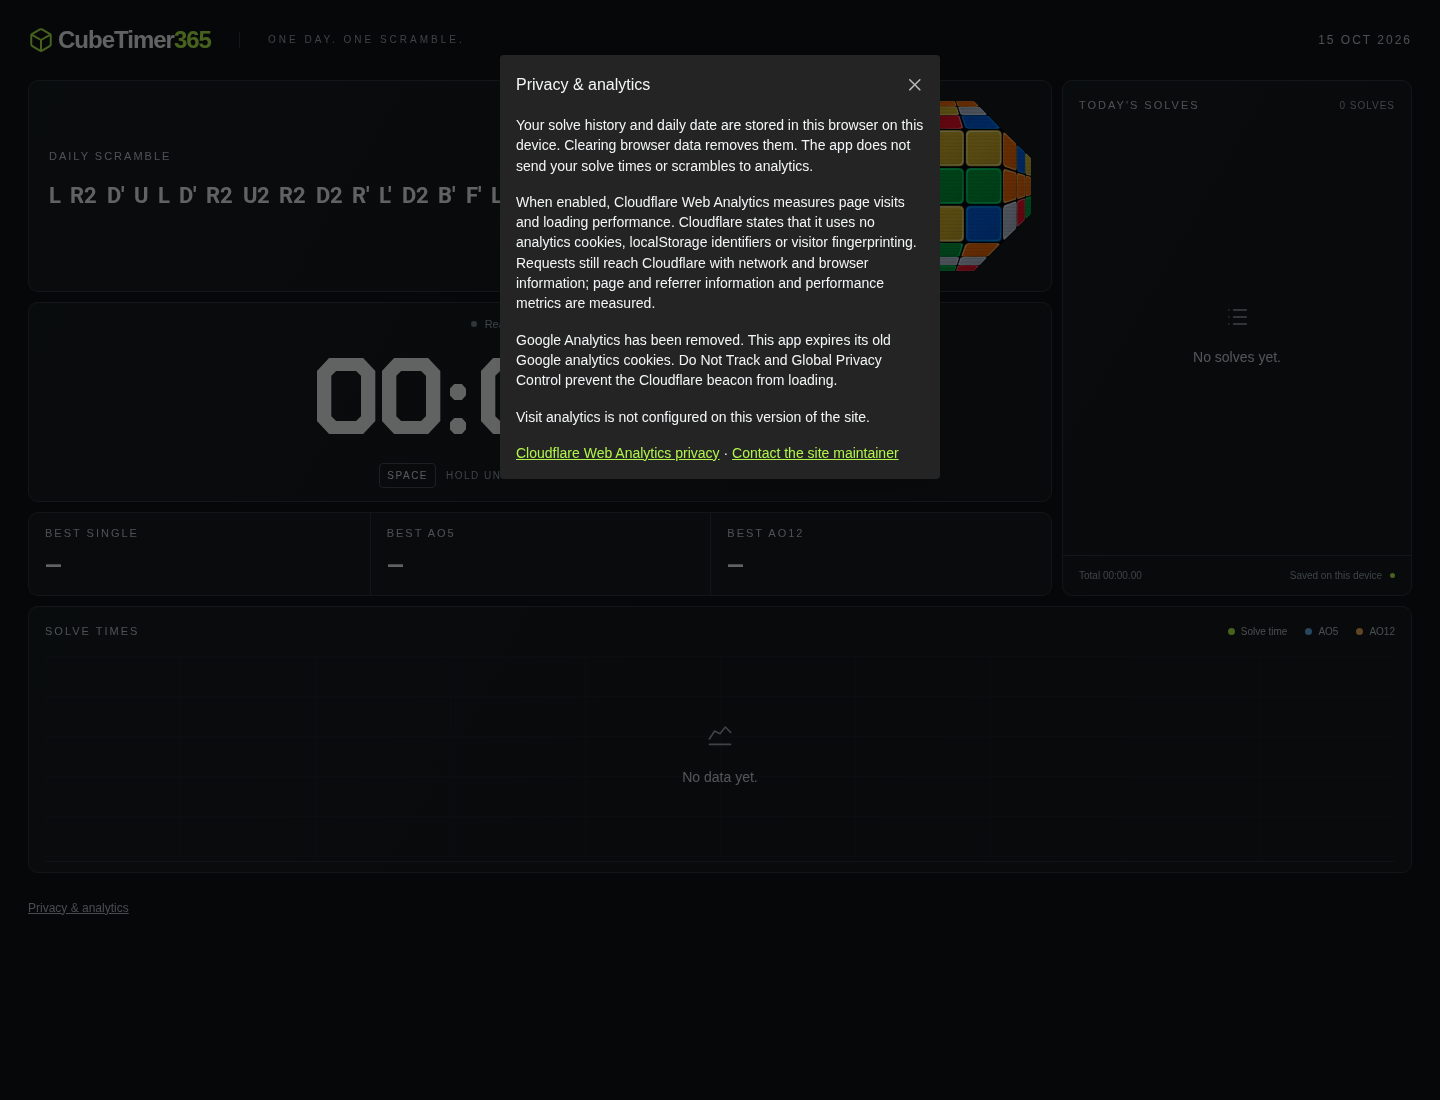
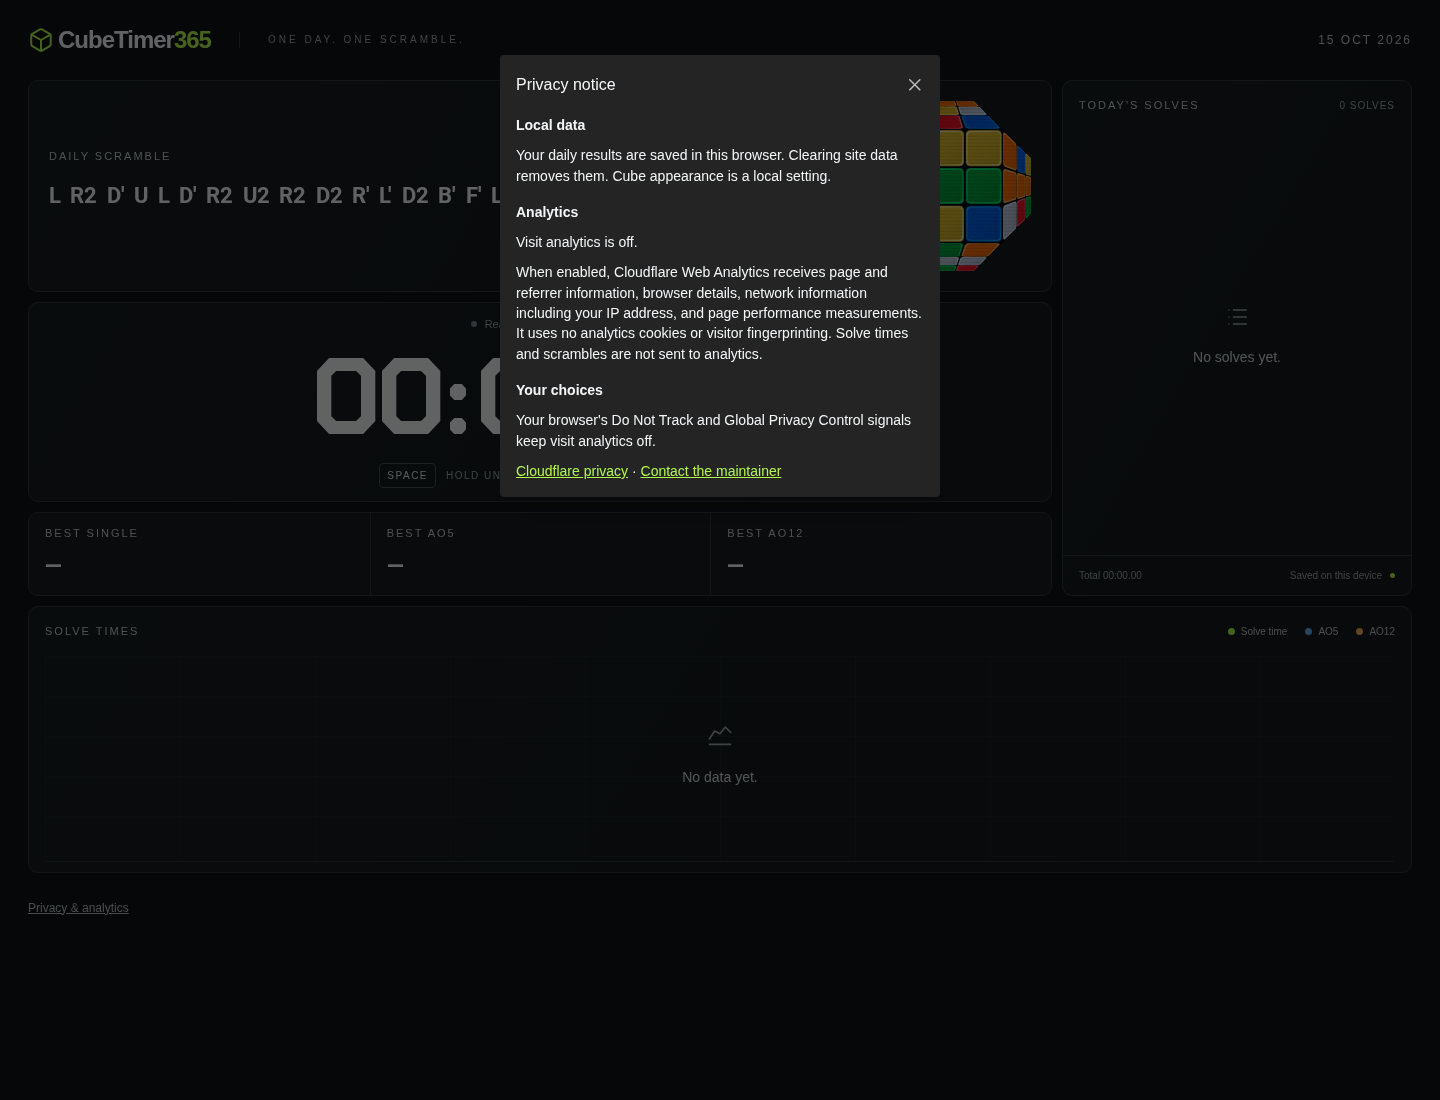
Present a visitor privacy notice and guard all analytics test contexts

Changed region(s): [[0.3438, 0.0618, 0.6562, 0.4636]]

diff --git a/src/AnalyticsPrivacy.tsx b/src/AnalyticsPrivacy.tsx
@@ -26,51 +26,84 @@ export default function AnalyticsPrivacy() {
         className="analytics-privacy-modal"
         opened={opened}
         onClose={() => setOpened(false)}
-        title="Privacy & analytics"
+        title="Privacy notice"
       >
-        <Stack>
-          <Text size="sm">
-            Your solve history and daily date are stored in this browser on this
-            device. Clearing browser data removes them. The app does not send
-            your solve times or scrambles to analytics.
-          </Text>
-          <Text size="sm">
-            When enabled, Cloudflare Web Analytics measures page visits and
-            loading performance. Cloudflare states that it uses no analytics
-            cookies, localStorage identifiers or visitor fingerprinting.
-            Requests still reach Cloudflare with network and browser
-            information; page and referrer information and performance metrics
-            are measured.
-          </Text>
-          <Text size="sm">
-            Google Analytics has been removed. This app expires its old Google
-            analytics cookies. Do Not Track and Global Privacy Control prevent
-            the Cloudflare beacon from loading.
-          </Text>
-          <Text size="sm">
-            {!import.meta.env.PROD || !analyticsConfigured
-              ? "Visit analytics is not configured on this version of the site."
-              : blocked
-                ? "Visit analytics is off because your browser sends a privacy signal."
-                : "Cloudflare Web Analytics is enabled on this version of the site."}
-          </Text>
-          <Text size="sm">
-            <a
-              href="https://www.cloudflare.com/web-analytics/"
-              target="_blank"
-              rel="noreferrer"
+        <Stack gap="md">
+          <section aria-labelledby="privacy-local">
+            <Text
+              component="h3"
+              id="privacy-local"
+              fw={600}
+              size="sm"
+              mt={0}
+              mb="xs"
             >
-              Cloudflare Web Analytics privacy
-            </a>
-            {" · "}
-            <a
-              href="https://github.com/progbeat/cubetimer365/issues"
-              target="_blank"
-              rel="noreferrer"
+              Local data
+            </Text>
+            <Text size="sm">
+              Your daily results are saved in this browser. Clearing site data
+              removes them. Cube appearance is a local setting.
+            </Text>
+          </section>
+          <section aria-labelledby="privacy-analytics">
+            <Text
+              component="h3"
+              id="privacy-analytics"
+              fw={600}
+              size="sm"
+              mt={0}
+              mb="xs"
             >
-              Contact the site maintainer
-            </a>
-          </Text>
+              Analytics
+            </Text>
+            <Text size="sm" mb="xs">
+              {!import.meta.env.PROD || !analyticsConfigured
+                ? "Visit analytics is off."
+                : blocked
+                  ? "Visit analytics is off because your browser sends a privacy signal."
+                  : "Visit analytics is enabled through Cloudflare."}
+            </Text>
+            <Text size="sm">
+              When enabled, Cloudflare Web Analytics receives page and referrer
+              information, browser details, network information including your
+              IP address, and page performance measurements. It uses no
+              analytics cookies or visitor fingerprinting. Solve times and
+              scrambles are not sent to analytics.
+            </Text>
+          </section>
+          <section aria-labelledby="privacy-choices">
+            <Text
+              component="h3"
+              id="privacy-choices"
+              fw={600}
+              size="sm"
+              mt={0}
+              mb="xs"
+            >
+              Your choices
+            </Text>
+            <Text size="sm" mb="xs">
+              Your browser's Do Not Track and Global Privacy Control signals
+              keep visit analytics off.
+            </Text>
+            <Text size="sm">
+              <a
+                href="https://www.cloudflare.com/web-analytics/"
+                target="_blank"
+                rel="noreferrer"
+              >
+                Cloudflare privacy
+              </a>
+              {" · "}
+              <a
+                href="https://github.com/progbeat/cubetimer365/issues"
+                target="_blank"
+                rel="noreferrer"
+              >
+                Contact the maintainer
+              </a>
+            </Text>
+          </section>
         </Stack>
       </Modal>
     </footer>

diff --git a/scripts/review/browser-date-check.js b/scripts/review/browser-date-check.js
@@ -1,4 +1,6 @@
-export default async (page) => {
+import { interceptAnalytics } from "./browser-network-guards.js";
+
+export default async (page, { configured = false } = {}) => {
   const origin = new URL(page.url());
   if (!["127.0.0.1", "localhost"].includes(origin.hostname)) {
     throw new Error("Use an isolated localhost browser");
@@ -36,6 +38,7 @@ export default async (page) => {
       timezoneId: fixture.timezoneId,
     });
     try {
+      const guard = await interceptAnalytics(context);
       const zonedPage = await context.newPage();
       await zonedPage.clock.setFixedTime(fixture.instant);
       const utcDate = fixture.instant.split("T")[0];
@@ -46,6 +49,16 @@ export default async (page) => {
       await zonedPage.goto(root);
       const headerDate = zonedPage.locator(".app-header time");
       await headerDate.waitFor();
+      if (configured) await zonedPage.waitForLoadState("networkidle");
+      assert(
+        !configured ||
+          guard.intercepted.some((url) =>
+            url.startsWith(
+              "https://static.cloudflareinsights.com/beacon.min.js",
+            ),
+          ),
+        `Analytics requests are intercepted in the separate ${fixture.timezoneId} context`,
+      );
       assert(
         (await headerDate.textContent()) === fixture.label,
         `Visible date uses the local calendar in ${fixture.timezoneId}`,

diff --git a/src/AnalyticsPrivacy.test.tsx b/src/AnalyticsPrivacy.test.tsx
@@ -38,16 +38,26 @@ it("keeps an honest privacy notice without Google or consent controls and preser
   ).not.toBeInTheDocument();
   fireEvent.click(screen.getByRole("button", { name: "Privacy & analytics" }));
   expect(
-    await screen.findByRole("dialog", { name: "Privacy & analytics" }),
+    await screen.findByRole("dialog", { name: "Privacy notice" }),
   ).toBeVisible();
   expect(
-    screen.getByText(
-      "Cloudflare Web Analytics is enabled on this version of the site.",
-    ),
+    screen.getByText("Visit analytics is enabled through Cloudflare."),
   ).toBeVisible();
   expect(
-    screen.getByRole("link", { name: "Cloudflare Web Analytics privacy" }),
+    screen.getByRole("link", { name: "Cloudflare privacy" }),
   ).toHaveAttribute("href", "https://www.cloudflare.com/web-analytics/");
+  expect(
+    screen.getByText(/Your daily results are saved in this browser/),
+  ).toBeVisible();
+  expect(screen.getByText(/including your IP address/)).toBeVisible();
+  expect(
+    screen.queryByText(
+      /Google Analytics|has been removed|version of the site|not configured/,
+    ),
+  ).not.toBeInTheDocument();
+  for (const name of ["Local data", "Analytics", "Your choices"]) {
+    expect(screen.getByRole("heading", { name })).toBeVisible();
+  }
   expect({ ...localStorage }).toEqual(saved);
   rerender(
     <StrictMode>

diff --git a/scripts/review/browser-analytics-check.js b/scripts/review/browser-analytics-check.js
@@ -61,7 +61,7 @@ export default async (page, options = {}) => {
         `${choice}: correct beacon count for this build`,
       );
       await page.getByRole("button", { name: "Privacy & analytics" }).click();
-      await page.getByRole("dialog", { name: "Privacy & analytics" }).waitFor();
+      await page.getByRole("dialog", { name: "Privacy notice" }).waitFor();
       assert(
         (await page
           .getByRole("button", { name: "Allow analytics" })
@@ -72,8 +72,8 @@ export default async (page, options = {}) => {
       await page
         .getByText(
           configured
-            ? "Cloudflare Web Analytics is enabled on this version of the site."
-            : "Visit analytics is not configured on this version of the site.",
+            ? "Visit analytics is enabled through Cloudflare."
+            : "Visit analytics is off.",
           { exact: true },
         )
         .waitFor();

diff --git a/scripts/review/browser-network-guards.js b/scripts/review/browser-network-guards.js
@@ -1,0 +1,11 @@
+export async function interceptAnalytics(context) {
+  const intercepted = [];
+  await context.route(
+    /^https:\/\/[^/]*(?:cloudflareinsights\.com|googletagmanager\.com|google-analytics\.com)\//,
+    async (route) => {
+      intercepted.push(route.request().url());
+      await route.fulfill({ contentType: "application/javascript", body: "" });
+    },
+  );
+  return { intercepted };
+}

diff --git a/docs/ANALYTICS.md b/docs/ANALYTICS.md
@@ -83,7 +83,7 @@ cleanup; they must not break the timer. Previously collected Google data and the
 GA4 property are not deleted by removing the tag.
 
 The old Allow / No thanks controls are gone. A compact Privacy & analytics link
-still explains local storage, actual configuration, Cloudflare's data flow and
+still explains local storage, the current enabled/off state, Cloudflare's data flow and
 privacy signals. No new analytics identifier or consent preference is stored.
 
 ## Verification
@@ -96,7 +96,8 @@ no Google queue/requests, cookie cleanup, local data, notice state and signals.
 
 `yarn browser-analytics-fixture` builds a separate ignored output with an explicitly
 synthetic test token, serves it only on localhost, and repeats the browser cases
-with the beacon configured, through the same runner used by `yarn browser-check`.
+with the beacon configured, including every separate timezone browser context,
+through the same runner used by `yarn browser-check`.
 The runner derives its expected configuration from Vite production env inputs
 (including process overrides), so activation does not leave disabled-build
 assertions enabled. Rebuild after changing those inputs. Vendor responses are stubbed; the fixture sends no
@@ -120,3 +121,10 @@ Sources checked 2026-10-15:
 - [Data origin and collection](https://developers.cloudflare.com/web-analytics/data-metrics/data-origin-and-collection/)
 - [SPA behavior](https://developers.cloudflare.com/web-analytics/get-started/web-analytics-spa/)
 - [Beacon configuration and FAQ](https://developers.cloudflare.com/web-analytics/faq/)
+
+The short visitor notice uses ordinary local-data, analytics and privacy-choice
+sections. Its structure was checked against the [GOV.UK privacy notice](https://www.gov.uk/help/privacy-notice)
+and [Plausible's data policy](https://plausible.io/data-policy); provider-specific
+statements are based on Cloudflare's guidance and this app's actual behavior, not
+on another service's legal basis, retention, hosting or consent claims. Migration
+history and setup instructions belong here and in the PR, not in the visitor notice.
